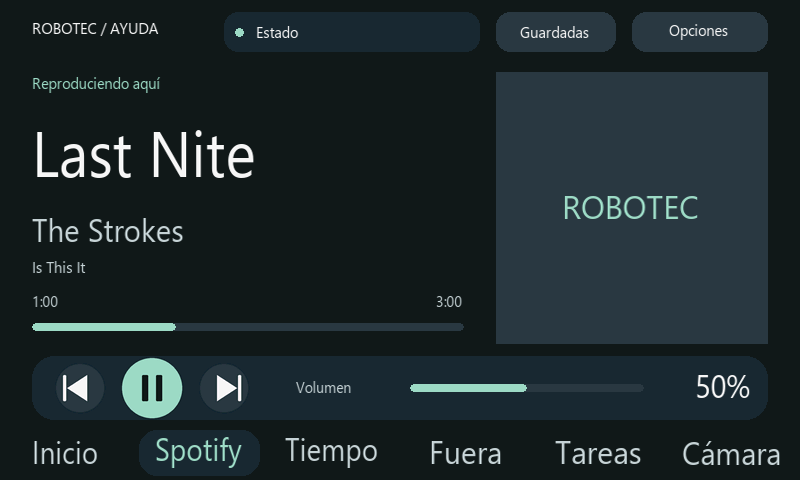
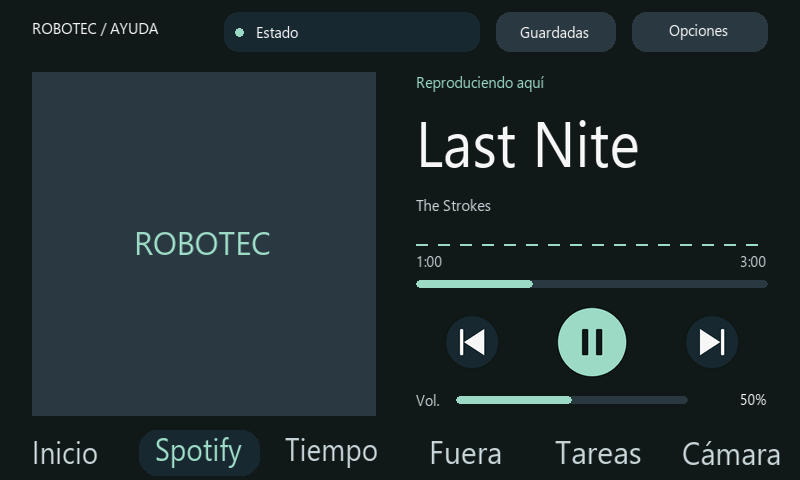
Da protagonismo a la portada y añade nivel real de salida

diff --git a/editorial_views.py b/editorial_views.py
@@ -184,37 +184,50 @@ class EditorialViews:
         self.soft_button('awaystart',240,342,320,56,'Estoy fuera',True,0)
         self.text('return',32,400,736,23,2,'Aviso de regreso · panel bloqueado · Spotify detenido',c['muted'],c['bg'],1)
 
+    def draw_output_meter(self,active):
+        c=self.theme; meter=getattr(self,'output_meter',None)
+        levels=meter.snapshot() if active and meter else (0.0,)*16
+        for i,level in enumerate(levels):
+            height=max(2,min(28,round(level*28)))
+            key='soundbar'+str(i); old=self.cache.get(key,0)
+            x=416+i*22
+            if height>old:self.fill(x,246-height,12,height-old,c['mint'] if active else c['button'])
+            elif height<old:self.fill(x,246-old,12,old-height,c['bg'])
+            # El color también cambia al pausar, sin borrar el panel.
+            if self.cache.get('soundactive')!=active:self.fill(x,246-height,12,height,c['mint'] if active else c['button'])
+            self.cache[key]=height
+        self.cache['soundactive']=active
+
     def draw_music(self,music):
-        c=self.theme; self.art('music',496,72,272)
-        self.text('playing',32,72,432,26,2,self.fit(self.music_label(music),432),c['mint'],c['bg'])
-        title=music['title']; big=self.text_width(title,1)<=432
+        c=self.theme; self.art('music',32,72,344)
+        ready=control_ready(music); active=ready and music['status']=='playing'
+        self.text('playing',416,72,352,24,2,self.fit(self.music_label(music),352),c['mint'],c['bg'])
+        title=music['title']; big=self.text_width(title,1)<=352
         if self.cache.get('titlelayout')!=big:
-            self.fill(32,104,432,100,c['bg'])
+            self.fill(416,100,352,88,c['bg'])
             for key in ('musictitlebig','musictitle0','musictitle1'):self.cache.pop(key,None)
             self.cache['titlelayout']=big
-        if big:self.text('musictitlebig',32,104,432,100,1,title,c['ink'],c['bg'])
-        else:self.paragraph('musictitle',32,112,432,title,2,0)
-        self.text('musicartist',32,210,432,40,0,self.fit(music['artist'],432,0),c['muted'],c['bg'])
-        self.text('musiccontext',32,255,432,24,2,self.fit(music.get('context') or 'Spotify Connect',432),c['muted'],c['bg'])
+        if big:self.text('musictitlebig',416,100,352,88,1,title,c['ink'],c['bg'])
+        else:self.paragraph('musictitle',416,108,352,title,2,0)
+        self.text('musicartist',416,192,352,26,2,self.fit(music['artist'],352),c['muted'],c['bg'])
+        self.draw_output_meter(active)
         ms=position_ms(music); duration=music.get('duration',0)
-        ready=control_ready(music)
         if self.cache.get('musicassiststate')!=ready:
-            self.fill(32,288,432,56,c['bg'])
+            self.fill(416,250,352,52,c['bg'])
             for key in ('elapsed','tracklength','delta:trackprogress','button:musichelp','musichelp'):self.cache.pop(key,None)
             self.cache['musicassiststate']=ready
         if ready:
-            self.text('elapsed',32,290,140,24,2,f'{int(ms)//60000}:{int(ms)//1000%60:02}',c['muted'],c['bg'])
-            self.text('tracklength',324,290,140,24,2,f'{duration//60000}:{duration//1000%60:02}',c['muted'],c['bg'],2)
-            self.progress('trackprogress',32,323,432,ms/max(1,duration),c['mint'])
+            self.text('elapsed',416,250,128,24,2,f'{int(ms)//60000}:{int(ms)//1000%60:02}',c['muted'],c['bg'])
+            self.text('tracklength',640,250,128,24,2,f'{duration//60000}:{duration//1000%60:02}',c['muted'],c['bg'],2)
+            self.progress('trackprogress',416,280,352,ms/max(1,duration),c['mint'])
         else:
             title='Conectando...' if getattr(self,'music_pending',None) else 'Escuchar aquí' if music.get('logged_in',False) else '¿Cómo conectar?'
-            self.soft_button('musichelp',32,288,432,48,title,True,0)
-        self.panel('musicdock',32,356,736,64,c['card'],22)
-        for key,x,icon,selected in [('prev',80,'prev',False),('toggle',152,'pause' if music['status']=='playing' else 'play',True),('next',224,'next',False)]:
-            self.icon_button(key,x,388,30 if selected else 24,icon,selected and ready,ready,surface=c['card'])
-        self.text('volumelabel',296,367,100,40,2,'Volumen',c['muted'],c['card'])
-        self.progress('volumeprogress',410,384,234,music['volume']/100,c['mint'])
-        self.text('volume',664,367,88,40,0,str(music['volume'])+'%',c['ink'],c['card'],2)
+            self.soft_button('musichelp',416,258,352,44,title,True,0)
+        for key,x,icon,selected in [('prev',472,'prev',False),('toggle',592,'pause' if music['status']=='playing' else 'play',True),('next',712,'next',False)]:
+            self.icon_button(key,x,342,34 if selected else 26,icon,selected and ready,ready)
+        self.text('volumelabel',416,384,32,32,2,'Vol.',c['muted'],c['bg'])
+        self.progress('volumeprogress',456,396,232,music['volume']/100,c['mint'])
+        self.text('volume',704,384,64,32,2,str(music['volume'])+'%',c['ink'],c['bg'],2)
 
     def draw_music_options(self,music):
         c=self.theme; options=music.get('options',{}); repeat=options.get('repeat','off')

diff --git a/tests/test_audio_meter.py b/tests/test_audio_meter.py
@@ -1,0 +1,68 @@
+"""Nivel real, privacidad, caducidad y coste de dibujo del indicador musical."""
+import math
+import struct
+import threading
+import unittest
+from unittest.mock import Mock, patch
+from test_dashboard import hub
+from audio_meter import COMMAND, OutputMeter, pcm_level
+from visual_assets import player_symbol
+
+
+class OutputMeterTests(unittest.TestCase):
+    def test_pcm_silence_and_amplitude(self):
+        self.assertEqual(pcm_level(b'\0'*2000),0)
+        self.assertEqual(pcm_level(b''),0)
+        def signal(amplitude):
+            return struct.pack('<1000h',*(round(amplitude*math.sin(i*.2)) for i in range(1000)))
+        self.assertLess(pcm_level(signal(200)),pcm_level(signal(12000)))
+        self.assertLessEqual(pcm_level(signal(32767)),1)
+
+    def test_monitor_is_output_only_and_does_not_write_files(self):
+        self.assertIn('--device=@DEFAULT_MONITOR@',COMMAND)
+        self.assertNotIn('--file-format',COMMAND)
+        self.assertNotIn('--device=@DEFAULT_SOURCE@',COMMAND)
+
+    def meter(self):
+        with patch('audio_meter.threading.Thread'): return OutputMeter(threading.Event())
+
+    def test_bounded_history_and_old_generation_rejected(self):
+        meter=self.meter();meter.set_enabled(True);generation=meter.generation
+        for _ in range(40):meter._publish(generation,struct.pack('<1000h',*([10000]*1000)))
+        self.assertEqual(len(meter.snapshot()),16);self.assertGreater(min(meter.snapshot()),0)
+        meter.set_enabled(False);meter.set_enabled(True)
+        meter._publish(generation,struct.pack('<1000h',*([30000]*1000)))
+        self.assertEqual(meter.snapshot(),(0.0,)*16)
+
+    def test_only_local_playing_music_enables_meter(self):
+        h=hub();h.output_meter=Mock()
+        for screen,unlocked,status,active,expected in (
+            ('music',True,'playing',True,True),('music',True,'paused',True,False),
+            ('music',True,'playing',False,False),('home',True,'playing',True,False),
+            ('music',False,'playing',True,False)):
+            h.screen=screen;h.unlocked=unlocked;h.music.update(status=status,is_active=active,_ready=active)
+            h.prepare_experience();h.output_meter.set_enabled.assert_called_with(expected)
+        h.unlocked=True;h.navigate('home');h.output_meter.set_enabled.assert_called_with(False)
+
+    def test_bars_use_small_deltas_without_touching_cover_or_text(self):
+        h=hub();h.output_meter=Mock();h.output_meter.snapshot.return_value=(.2,)*16
+        commands=[];h.send=commands.append;h.draw_output_meter(True);commands.clear()
+        h.draw_output_meter(True);self.assertEqual(commands,[])
+        h.output_meter.snapshot.return_value=(.7,)*16;h.draw_output_meter(True)
+        self.assertEqual(len(commands),16)
+        for command in commands:
+            self.assertTrue(command.startswith('fill '))
+            x,y,w,height,color=map(int,command[5:].split(','))
+            self.assertTrue(416<=x<x+w<=768 and 218<=y<y+height<=246)
+        commands.clear();h.draw_output_meter(False)
+        self.assertLessEqual(len(commands),32)
+
+    def test_skip_symbols_are_centered_inside_both_circles(self):
+        for radius in (24,26,30):
+            for icon in ('prev','next'):
+                side,pixels=player_symbol(radius,icon,65535,0,0)
+                points=[(i%side,i//side) for i,p in enumerate(pixels) if p==65535]
+                self.assertTrue(points)
+                for axis in (0,1):
+                    bounds=[p[axis] for p in points]
+                    self.assertLessEqual(abs((min(bounds)+max(bounds))/2-(radius+1)),1,(radius,icon,axis))

diff --git a/audio_meter.py b/audio_meter.py
@@ -1,0 +1,93 @@
+"""Amplitud de la salida local: muestras transitorias, sin grabar audio."""
+from array import array
+from collections import deque
+import math
+import os
+import select
+import subprocess
+import sys
+import threading
+
+
+COMMAND = ('parec', '--raw', '--device=@DEFAULT_MONITOR@', '--format=s16le',
+           '--rate=8000', '--channels=1', '--latency-msec=80',
+           '--client-name=Desk Hub', '--stream-name=Indicador de salida')
+
+
+def pcm_level(data):
+    samples = array('h')
+    samples.frombytes(data[:len(data)//2*2])
+    if sys.byteorder != 'little': samples.byteswap()
+    if not samples: return 0.0
+    rms = math.sqrt(sum(v*v for v in samples)/len(samples))/32768
+    if rms <= 0.0001: return 0.0
+    return max(0.0, min(1.0, (20*math.log10(rms)+55)/47))
+
+
+class OutputMeter:
+    def __init__(self, stop):
+        self.stop = stop
+        self.closed = threading.Event()
+        self.lock = threading.Lock()
+        self.enabled = False
+        self.generation = 0
+        self.levels = deque([0.0]*16, maxlen=16)
+        self.thread = threading.Thread(target=self._run, name='output-meter', daemon=True)
+        self.thread.start()
+
+    def set_enabled(self, enabled):
+        with self.lock:
+            if self.enabled != bool(enabled):
+                self.enabled = bool(enabled)
+                self.generation += 1
+                self.levels = deque([0.0]*16, maxlen=16)
+
+    def snapshot(self):
+        with self.lock: return tuple(self.levels)
+
+    def _publish(self, generation, data):
+        level = pcm_level(data)
+        with self.lock:
+            if self.enabled and generation == self.generation:
+                self.levels.append(level)
+
+    def _run(self):
+        while not self.stop.is_set() and not self.closed.is_set():
+            with self.lock: enabled, generation = self.enabled, self.generation
+            if not enabled:
+                self.closed.wait(.1)
+                continue
+            proc = None
+            try:
+                env = dict(os.environ, XDG_RUNTIME_DIR=f'/run/user/{os.getuid()}')
+                proc = subprocess.Popen(COMMAND, stdout=subprocess.PIPE, stderr=subprocess.DEVNULL, env=env)
+                pending = bytearray()
+                while not self.stop.is_set() and not self.closed.is_set():
+                    with self.lock: current = self.enabled and generation == self.generation
+                    if not current: break
+                    if not select.select([proc.stdout], [], [], .1)[0]:
+                        if proc.poll() is not None: break
+                        continue
+                    data = os.read(proc.stdout.fileno(), 4096)
+                    if not data: break
+                    pending.extend(data)
+                    while len(pending) >= 2000:
+                        self._publish(generation, pending[:2000])
+                        del pending[:2000]
+            except (OSError, ValueError):
+                pass
+            finally:
+                if proc:
+                    if proc.poll() is None:
+                        proc.terminate()
+                        try: proc.wait(timeout=1)
+                        except subprocess.TimeoutExpired: proc.kill(); proc.wait()
+                    proc.stdout.close()
+                with self.lock:
+                    if generation == self.generation: self.levels = deque([0.0]*16, maxlen=16)
+            self.closed.wait(1)
+
+    def close(self):
+        self.set_enabled(False)
+        self.closed.set()
+        self.thread.join(2)

diff --git a/robotec.py b/robotec.py
@@ -39,6 +39,7 @@ from gallery_views import GalleryViews
 from media_views import MediaViews
 from uart_speed import negotiate_speed
 from gallery_pixels import preview_passes
+from audio_meter import OutputMeter
 
 def rgb(hexcolor):
     r,g,b=bytes.fromhex(hexcolor)
@@ -185,6 +186,7 @@ class Robotec(VideoViews, NotionViews, TimerViews, IdleControl, FriendlyUI, Focu
         if row: self.library=MusicLibrary(json.loads(row[0]))
         self.music.update(is_active=False,logged_in=False,_ready=False,_epoch=0)
         self.alert_sound=AlertSound(self.directory,self.stop)
+        self.output_meter=OutputMeter(self.stop)
         if self.watch['started'] is not None: self.time_mode='watch'
         self.ready.set()
         threading.Thread(target=self.music_events,daemon=True).start()
@@ -241,6 +243,7 @@ class Robotec(VideoViews, NotionViews, TimerViews, IdleControl, FriendlyUI, Focu
             if desired!=self.spotify_desired: self.spotify_wake.set()
 
     def lock_hub(self,away=False):
+        if getattr(self,'output_meter',None): self.output_meter.set_enabled(False)
         self._notion_selected=None
         self.ambient_since=None
         self.unlocked=False
@@ -310,6 +313,7 @@ class Robotec(VideoViews, NotionViews, TimerViews, IdleControl, FriendlyUI, Focu
         return view not in ('sharing','phone','booth','activity')
 
     def navigate(self,view):
+        if view!='music' and getattr(self,'output_meter',None): self.output_meter.set_enabled(False)
         if not self.authorized_view(view):view='home'
         self._photo_action=None; self._trash_item=None
         if not self.unlocked and view not in ('lock','away','help'): view='lock'
@@ -453,13 +457,13 @@ class Robotec(VideoViews, NotionViews, TimerViews, IdleControl, FriendlyUI, Focu
                 options=m.get('options',{})
                 if 488<=x<752 and 159<=y<211: command=['shuffle','off' if options.get('shuffle') else 'on']
                 elif 488<=x<752 and 231<=y<283: command=['repeat',{'off':'context','context':'track','track':'off'}.get(options.get('repeat','off'),'off')]
-            elif 308<=y<344 and 32<=x<464:
-                if m.get('duration',0): command=['seek',str(round((x-32)/432*m['duration']))]
-            elif 356<=y<420 and x<272:
-                for cx,action in [(80,'prev'),(152,'pause' if m['status']=='playing' else 'play'),(224,'next')]:
-                    if (x-cx)**2+(y-388)**2<=(30 if cx==152 else 26)**2: command=[action]
-            elif 366<=y<414 and 410<=x<644:
-                value=max(0,min(100,round((x-410)/234*100)))
+            elif 267<=y<301 and 416<=x<768:
+                if m.get('duration',0): command=['seek',str(round((x-416)/352*m['duration']))]
+            elif 308<=y<377:
+                for cx,action in [(472,'prev'),(592,'pause' if m['status']=='playing' else 'play'),(712,'next')]:
+                    if (x-cx)**2+(y-342)**2<=(34 if cx==592 else 28)**2: command=[action]
+            elif 380<=y<420 and 456<=x<688:
+                value=max(0,min(100,round((x-456)/232*100)))
                 command=['volume',str(value)]
             if command: self.queue_music(command)
         elif self.screen=='github' and 346 <= y < 394:
@@ -694,6 +698,7 @@ if __name__=='__main__':
         try: hub.run()
         finally:
             hub.stop.set()
+            hub.output_meter.close()
             if hub.music_event_process and hub.music_event_process.poll() is None:
                 hub.music_event_process.terminate()
             if getattr(hub,'videos',None): hub.videos.close()

diff --git a/tests/test_player_layout.py b/tests/test_player_layout.py
@@ -32,20 +32,20 @@ class PlayerLayoutTests(unittest.TestCase):
 
     def test_transport_and_full_volume_range(self):
         h=hub();h.screen='music'
-        for x,y,expected in ((80,388,['prev']),(152,388,['play']),(224,388,['next']),
-                             (410,388,['volume','0']),(643,388,['volume','100'])):
+        for x,y,expected in ((472,342,['prev']),(592,342,['play']),(712,342,['next']),
+                             (456,396,['volume','0']),(687,396,['volume','100'])):
             self.tap(h,x,y);self.assertEqual(h.music_commands.get_nowait()['command'],expected)
 
     def test_help_area_becomes_seek_only_after_local_playback_ready(self):
         h=hub();h.screen='music';h.music.update(is_active=False,_ready=False,logged_in=False)
-        self.tap(h,248,323);self.assertEqual(h.screen,'help');self.assertTrue(h.music_commands.empty())
+        self.tap(h,592,280);self.assertEqual(h.screen,'help');self.assertTrue(h.music_commands.empty())
         h.navigate('music');h.music.update(is_active=True,_ready=True,logged_in=True)
-        self.tap(h,248,323);self.assertEqual(h.music_commands.get_nowait()['command'],['seek','100000'])
+        self.tap(h,592,280);self.assertEqual(h.music_commands.get_nowait()['command'],['seek','100000'])
 
     def test_short_title_clears_both_old_title_lines(self):
         h=hub();h.screen='music';h.music['title']='Una canción con un título suficientemente largo para ocupar dos líneas'
         h.render();commands=[];h.send=commands.append;h.music['title']='Luz';h.render()
-        self.assertTrue(any(c.startswith('fill 32,104,432,100,') for c in commands))
+        self.assertTrue(any(c.startswith('fill 416,100,352,88,') for c in commands))
         self.assertTrue(any('"Luz"' in c and ',1,' in c for c in commands))
         self.assertFalse(any(c.startswith('cls ') for c in commands))
 

diff --git a/tests/test_makeover.py b/tests/test_makeover.py
@@ -43,12 +43,12 @@ class LayoutTests(unittest.TestCase):
 
     def test_music_slider_and_transport_keep_separate_hit_areas(self):
         value=hub(); value.screen='music'
-        for x,y in [(300,388),(480,323),(700,319)]:
+        for x,y in [(300,342),(530,342),(660,342)]:
             value.last_touch=0; value.touch(x,y)
         self.assertTrue(value.music_commands.empty())
-        value.last_touch=0; value.touch(152,388)
+        value.last_touch=0; value.touch(592,342)
         self.assertEqual(value.music_commands.get_nowait()['command'],['play'])
-        value.last_touch=0; value.touch(527,388)
+        value.last_touch=0; value.touch(572,396)
         self.assertEqual(value.music_commands.get_nowait()['command'],['volume','50'])
 
     def test_alarm_field_selection_and_volume_do_not_change_spotify(self):

diff --git a/visual_assets.py b/visual_assets.py
@@ -18,9 +18,10 @@ def player_symbol(radius, icon, foreground, button, background):
     elif icon in ('play','next','prev'):
         direction=-1 if icon=='prev' else 1
         points=[(-7*direction,-13),(-7*direction,13),(13*direction,0)]
+        if icon!='play': points=[(x-5*direction,y) for x,y in points]
         d.polygon([((center+x)*scale,(center+y)*scale) for x,y in points],fill=rgb(foreground))
         if icon!='play':
-            x=14 if direction==1 else -17
+            x=9 if direction==1 else -12
             d.rounded_rectangle(box(x,-13,x+3,13),radius=scale,fill=rgb(foreground))
     im=im.resize((side,side),Image.Resampling.LANCZOS)
     raw=im.tobytes()

diff --git a/tests/test_friendly.py b/tests/test_friendly.py
@@ -60,7 +60,7 @@ class FriendlyTests(unittest.TestCase):
         value=hub(); value.screen='music'; value.music.update(is_active=False,_ready=False,logged_in=False)
         commands=[]; value.send=commands.append; value.render()
         self.assertTrue(any('¿Cómo conectar?' in c for c in commands))
-        value.touch(160,310); self.assertEqual(value.screen,'help'); self.assertTrue(value.music_commands.empty())
+        value.touch(592,280); self.assertEqual(value.screen,'help'); self.assertTrue(value.music_commands.empty())
 
 
 class ForecastTests(unittest.TestCase):

diff --git a/experience.py b/experience.py
@@ -76,6 +76,9 @@ class Experience:
     def prepare_experience(self):
         # Único escritor de pantalla: los hilos de red sólo publican datos.
         self.check_inactivity(show_ambient=True)
+        if getattr(self,'output_meter',None):
+            with self.lock: meter_music=self.music.copy()
+            self.output_meter.set_enabled(self.unlocked and self.screen=='music' and control_ready(meter_music) and meter_music.get('status')=='playing')
         self.set_display_brightness()
         base=dict(type(self).theme)
         if self.screen=='ambient':

diff --git a/friendly_ui.py b/friendly_ui.py
@@ -45,7 +45,7 @@ class FriendlyUI:
             self.navigate('home'); return True
         if not self.compact and self.screen not in ('ambient','duration','power') and 12<=y<52 and 32<=x<210:
             self.open_help(); return True
-        if self.screen=='music' and 32<=x<464 and 288<=y<336:
+        if self.screen=='music' and 416<=x<768 and 258<=y<302:
             with self.lock: ready=control_ready(self.music); logged_in=self.music.get('logged_in',False)
             if not ready:
                 if logged_in: self.request_selected_music()

diff --git a/tests/test_dashboard.py b/tests/test_dashboard.py
@@ -120,7 +120,7 @@ class ToolsTests(unittest.TestCase):
         self.assertFalse(value.unlocked); self.assertIsNone(value.notice); self.assertEqual(value.screen,'lock')
 
     def test_seek_and_shuffle_are_queued(self):
-        value=hub(); value.screen='music'; value.touch(248,323)
+        value=hub(); value.screen='music'; value.touch(592,280)
         self.assertEqual(value.music_commands.get_nowait()['command'],['seek','100000'])
         value.last_touch=0; value.touch(700,32)
         self.assertEqual(value.screen,'music_options')

diff --git a/tests/test_feature_navigation.py b/tests/test_feature_navigation.py
@@ -62,7 +62,7 @@ class FeatureNavigationTests(unittest.TestCase):
         value=hub(); value.navigate('music'); value.music.update(is_active=False,_ready=False)
         commands=[]; value.send=commands.append; value.render()
         self.assertTrue(any('Escuchar aquí' in command for command in commands))
-        self.touch(value,160,310)
+        self.touch(value,592,280)
         self.assertEqual(value.screen,'music')
         self.assertEqual(value.music_commands.get_nowait()['command'],['activate'])
 
